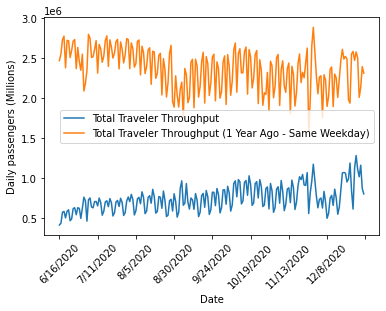
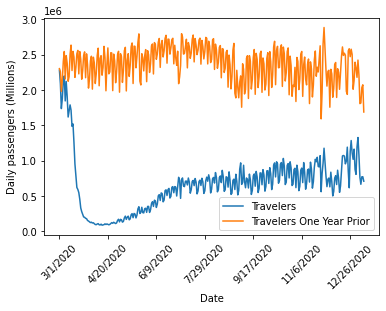
Added iteration through full dataset

diff --git a/airline_scrape/airline_data_scrape/tsa_scrape.py b/airline_scrape/airline_data_scrape/tsa_scrape.py
@@ -12,33 +12,44 @@ import numpy as np
 #Data from TSA on airline passenger flight volume year over year
 
 
-url = "https://www.tsa.gov/coronavirus/passenger-throughput?page=0"
-
-#Use a header to imitate a browser, else TSA server deines access.
+#Use a header to imitate a browser for data scraping.
 
 header = {
     "User-Agent": "Mozilla/5.0 (X11; Linux x86_64) AppleWebKit/537.36 (KHTML, like Gecko) Chrome/50.0.2661.75 Safari/537.36",
     "X-Requested-With": "XMLHttpRequest"
     }
 
-r = requests.get(url, headers=header)
+#Creating an empty collection dataframe
+df = pd.DataFrame()
 
-table = pd.read_html(r.text)
+#We will iterate over pages in the dataset until we reach a page without data,
+#where we will break from the while loop.
 
-print("There are: ", len(table), " tables")
-print("Take a look at table 0")
-print(type(table[0]))
+i=0
+while True:      
+    try:
+        print(i)
+        url = "https://www.tsa.gov/coronavirus/passenger-throughput?page="+str(i)
+    
+        r = requests.get(url, headers=header)
 
-df = table[0]
+        table = pd.read_html(r.text)
+        
+        df = df.append(table[0])
+        i += 1
+    except ValueError:
+        print("Reached end of dataset. Loaded ", i, "pages of data.")
+        break
+    
+#Reindexing by date in ascending order, renaming columns        
 df.set_index("Date", inplace=True)
-#df = df.sort_index(ascending=True, axis=0)
 df = df.reindex(index = df.index[::-1])
-print(df.head())
-
-for col in df.columns:
-    print(col)
 
 
+df.rename(columns={"Total Traveler Throughput": "Travelers", "Total Traveler Throughput (1 Year Ago - Same Weekday)": "Travelers One Year Prior"}, inplace=True)
+print(df.columns)
+
+#Creating a basic plot to show the year over year difference in air traffic.
 plt.figure()
 df.plot()
 
@@ -50,7 +61,12 @@ plt.xticks(rotation=45)
 plt.show()
 
 
+#Average negative change in airline traffic from start to end of dataset.
+avg_margin = (np.sum(df["Travelers One Year Prior"])/len(df) - np.sum(df["Travelers"])/len(df))/(np.sum(df["Travelers One Year Prior"])/len(df))
 
-avg_margin = (np.sum(df["Total Traveler Throughput (1 Year Ago - Same Weekday)"])/len(df) - np.sum(df["Total Traveler Throughput"])/len(df))/(np.sum(df["Total Traveler Throughput (1 Year Ago - Same Weekday)"])/len(df))
+#variables for points in dataset
+data_start = df.index[0]
+data_end = df.index[-1]
 
-print(avg_margin)
+#A print statement that gives the average change in air traffic volume since the start of the COVID-19 pandemic.
+print("Between ", data_start, " and ", data_end, ", air traffic volume in the United States decreased by, ", np.round(100*avg_margin, 2), "percent on average.")
